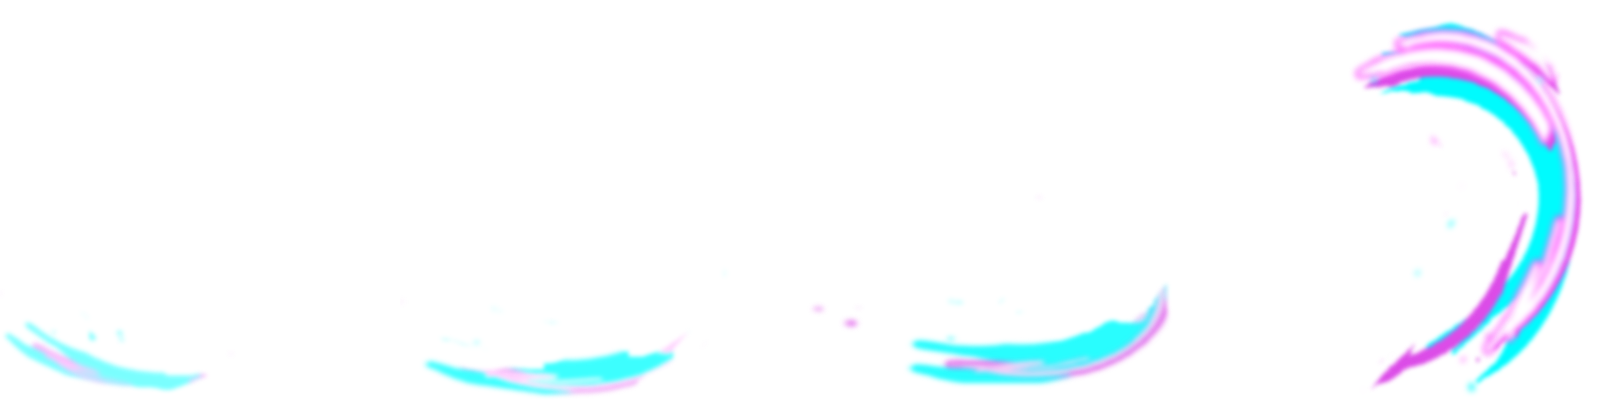
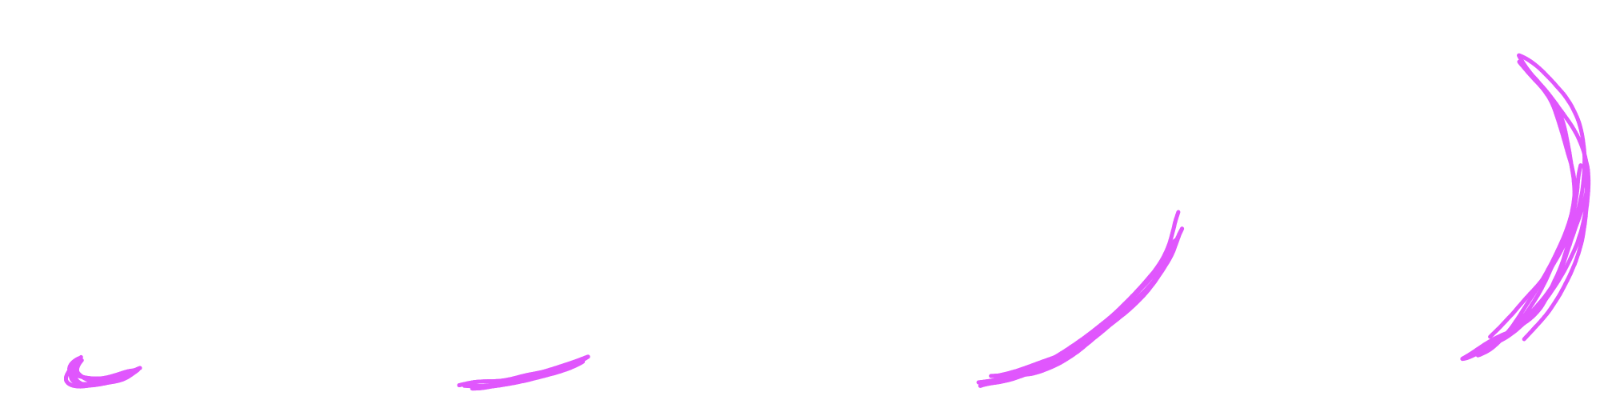
cleaned up kick sprite

diff --git a/src/tools/play.html b/src/tools/play.html
@@ -91,7 +91,7 @@ const RUN_CYCLE = RUN_POSE_ORDER.map((pose, i) => ({ frame: RUN.from + i, hold: 
 const WALL_JUMP_LOCK_TIME = 0.18;
 const DASH_TIME = 0.16, DASH_COOLDOWN = 0.45;
 const ATTACK_HOLD_TIME = 0.35, ATTACK_KICK_HOLD_TIME = 0.25;
-const KICK_FRAME_HOLDS = [1.3, 0.4, 0.3, 0.4, 2.7, 0.3];
+const KICK_FRAME_HOLDS = [1, 1, 1.3, 1, 1.5, 1];
 const AIR_KICK = { enabled: true, holdTime: 0.32, holds: [1, 1, 1, 1, 1.4, 1.4, 1.4, 1], oncePerAirtime: true, lunge: 520, gravityScale: 0.3, vyKeep: 0.25,
   squash: { x: 1.1, y: 0.92 }, impactFrame: 4, shakeTime: 0.14, shakeStrength: 8, hitStop: 0.06,
   ghostInterval: 0.016, ghostLife: 0.4, ghostAlpha: 0.6, ghostDrift: 160, ghostDrag: 3, ghostGrow: 0.15,
